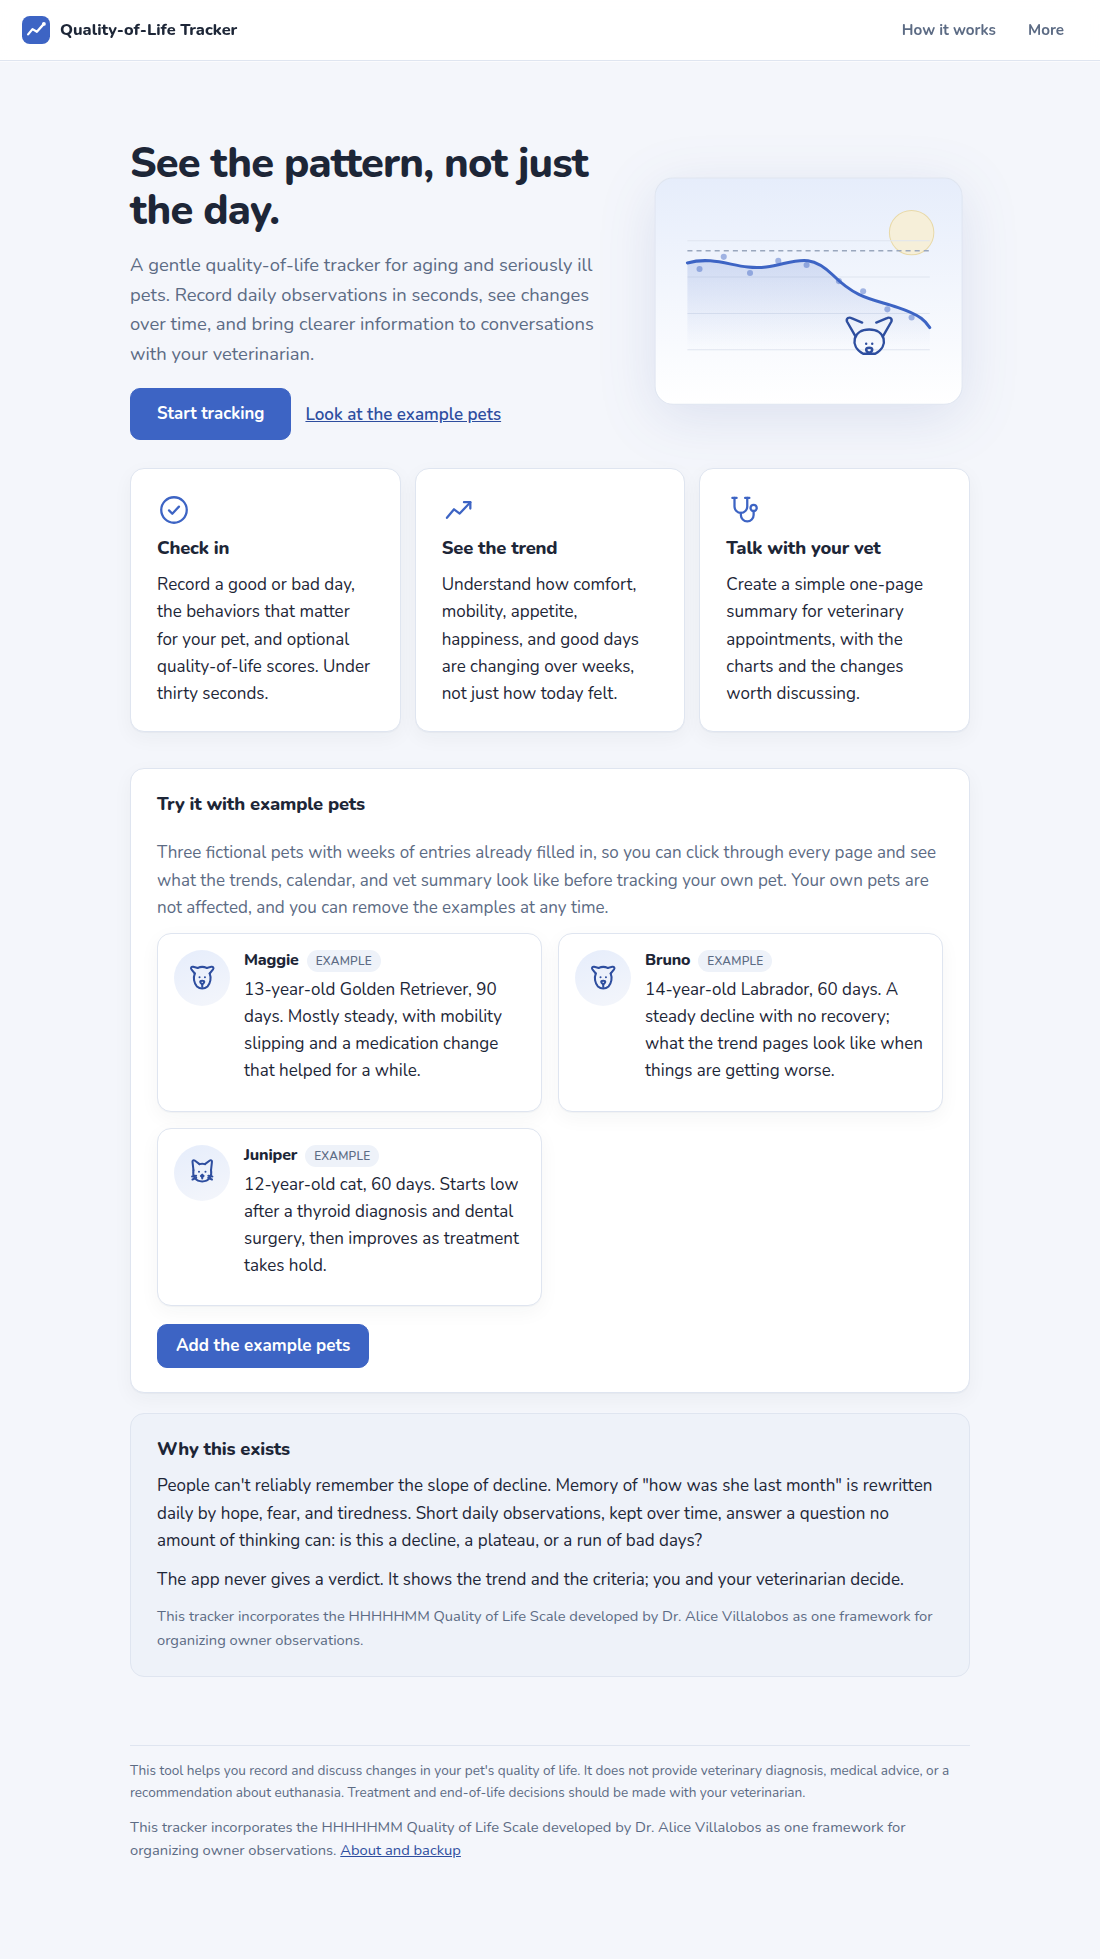
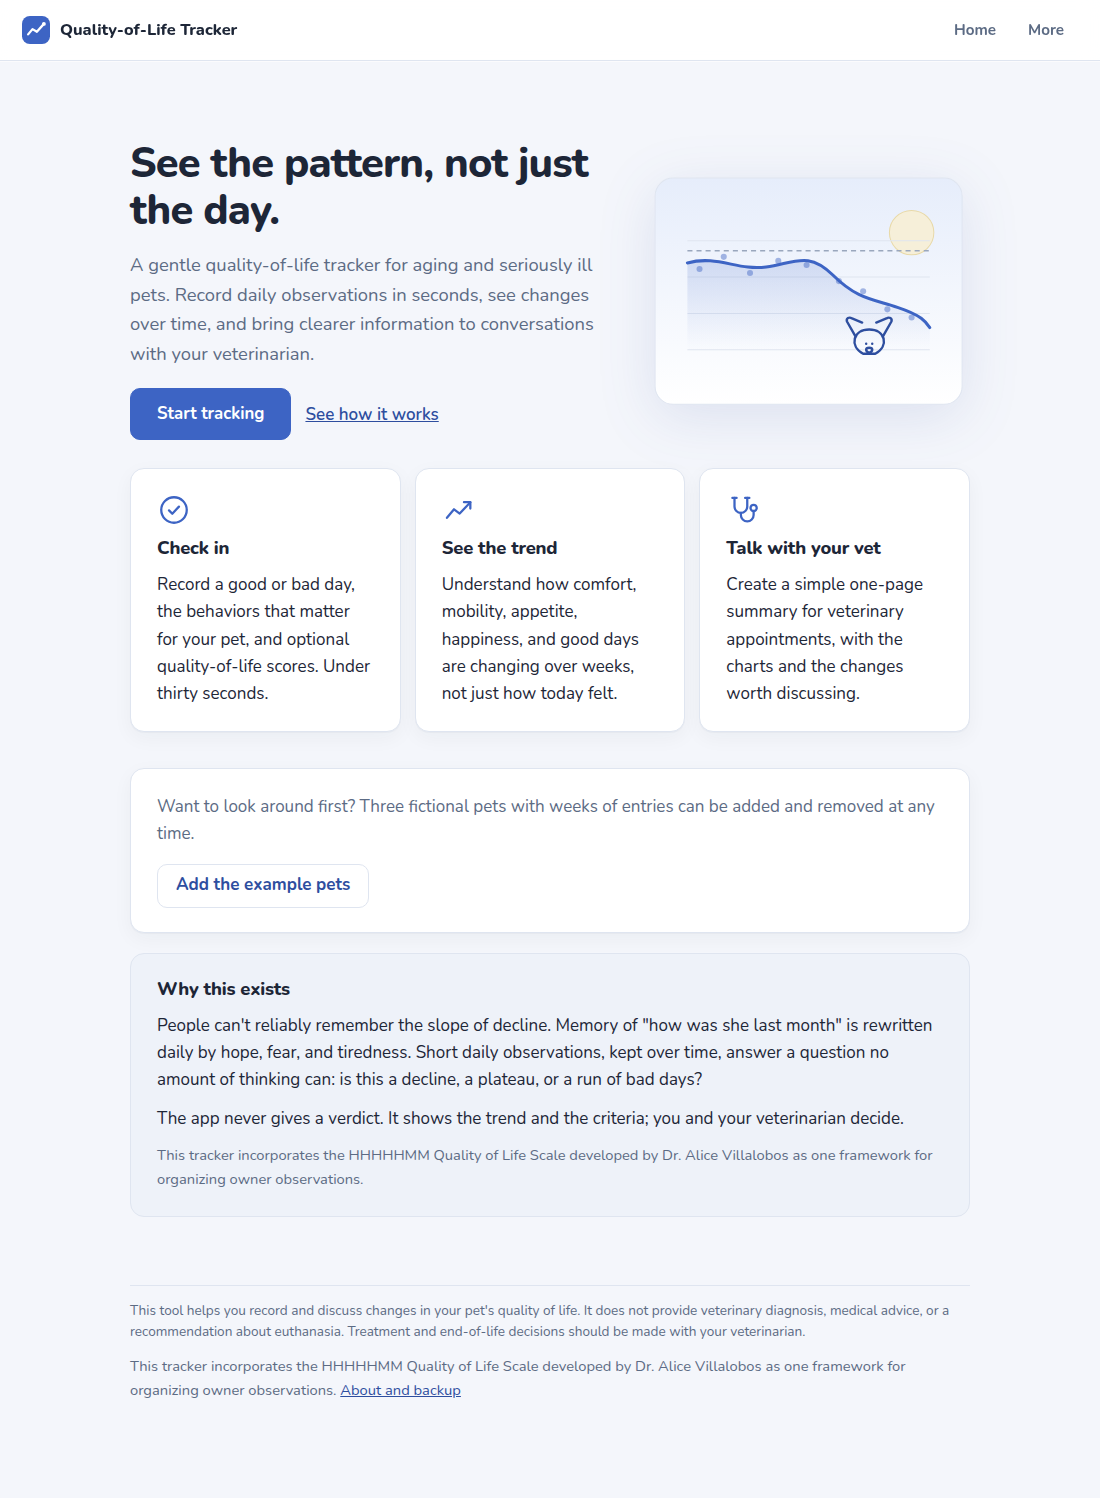
Add a Home tab and shrink the example pets to one button
Home leads the navigation and the logo goes there too. The home page
adapts to the situation: "Go to <pet>'s Today" and "Add a pet" when a
pet is current, "Choose a pet" when there are several, "Start tracking"
when there are none. The example-pet cards are replaced by one line with
an "Add the example pets" button, or a remove button once they are
loaded. One test added.

Claude-Session: https://claude.ai/code/session_01WD81nzJdcR2tiUwVwuFBaZ

diff --git a/app/templates/landing.html b/app/templates/landing.html
@@ -7,8 +7,16 @@
     <h1>See the pattern, not just the day.</h1>
     <p class="lede">A gentle quality-of-life tracker for aging and seriously ill pets. Record daily observations in seconds, see changes over time, and bring clearer information to conversations with your veterinarian.</p>
     <div class="actions">
-      <a class="button large" href="{{ url_for('animals.new_animal', onboarding=1) }}">Start tracking</a>
-      <a class="link" href="#examples">Look at the example pets</a>
+      {% if current %}
+        <a class="button large" href="{{ url_for('dashboard.today', animal_id=current.id) }}">Go to {{ current.name }}'s Today</a>
+        <a class="link" href="{{ url_for('animals.new_animal') }}">Add a pet</a>
+      {% elif pets %}
+        <a class="button large" href="{{ url_for('dashboard.pets') }}">Choose a pet</a>
+        <a class="link" href="{{ url_for('animals.new_animal') }}">Add a pet</a>
+      {% else %}
+        <a class="button large" href="{{ url_for('animals.new_animal', onboarding=1) }}">Start tracking</a>
+        <a class="link" href="#how">See how it works</a>
+      {% endif %}
     </div>
   </div>
   <figure class="hero-art" aria-hidden="true">
@@ -51,35 +59,18 @@
   </div>
 </section>
 
-<section class="card block" id="examples">
-  <div class="section-head tight">
-    <h2>Try it with example pets</h2>
-    {% if examples_present %}
-      <form method="post" action="{{ url_for('demo.remove') }}" class="inline-form" data-confirm="Remove the example pets and all their made-up entries?">
-        <button class="link small" type="submit">Remove the example pets</button>
-      </form>
-    {% endif %}
-  </div>
-  <p class="muted">Three fictional pets with weeks of entries already filled in, so you can click through every page and see what the trends, calendar, and vet summary look like before tracking your own pet. Your own pets are not affected, and you can remove the examples at any time.</p>
-  <div class="grid examples-grid">
-    {% for ex in examples %}
-      <article class="card example-card">
-        <span class="placeholder portrait" aria-hidden="true">{{ icon(ex.species, 'icon species') }}</span>
-        <div>
-          <h3>{{ ex.name }} <span class="chip quiet example-chip">Example</span></h3>
-          <p class="meta">{{ ex.story }}</p>
-          {% if ex.animal %}
-            <form method="post" action="{{ url_for('animals.select_animal', animal_id=ex.animal.id) }}" class="inline-form">
-              <button class="button small secondary" type="submit">Open {{ ex.name }}</button>
-            </form>
-          {% endif %}
-        </div>
-      </article>
-    {% endfor %}
-  </div>
-  {% if not examples_present %}
-    <form method="post" action="{{ url_for('demo.add') }}" class="actions">
-      <button class="button" type="submit">Add the example pets</button>
+<section class="card block examples-line" id="examples">
+  {% if examples_present %}
+    <p>Example pets are loaded:
+      {% for ex in examples if ex.animal %}<a href="{{ url_for('dashboard.today', animal_id=ex.animal.id) }}">{{ ex.name }}</a>{% if not loop.last %}, {% endif %}{% endfor %}.
+      Everything about them is made up.</p>
+    <form method="post" action="{{ url_for('demo.remove') }}" class="inline-form" data-confirm="Remove the example pets and all their made-up entries?">
+      <button class="button small secondary" type="submit">Remove the example pets</button>
+    </form>
+  {% else %}
+    <p>Want to look around first? Three fictional pets with weeks of entries can be added and removed at any time.</p>
+    <form method="post" action="{{ url_for('demo.add') }}" class="inline-form">
+      <button class="button secondary" type="submit">Add the example pets</button>
     </form>
   {% endif %}
 </section>

diff --git a/app/templates/base.html b/app/templates/base.html
@@ -12,13 +12,14 @@
 <body class="{% block body_class %}{% endblock %}">
   <a class="skip" href="#main">Skip to content</a>
   <header class="topbar">
-    <a class="brand" href="{{ url_for('dashboard.home') }}">
+    <a class="brand" href="{{ url_for('dashboard.landing') }}">
       <svg viewBox="0 0 32 32" aria-hidden="true"><rect width="32" height="32" rx="9" fill="#3d64c4"/><polyline points="7,21 12,15 17,18 25,9" fill="none" stroke="#fff" stroke-width="2.6" stroke-linecap="round" stroke-linejoin="round"/><circle cx="25" cy="9" r="2.2" fill="#fff"/></svg>
       <span>Quality-of-Life Tracker</span>
     </a>
     {% if g.current_animal %}
       {% set a = g.current_animal %}
       <nav class="nav" aria-label="Main">
+        <a class="nav-item {{ 'active' if request.endpoint == 'dashboard.landing' }}" href="{{ url_for('dashboard.landing') }}">Home</a>
         <a class="nav-item {{ 'active' if request.endpoint in ('dashboard.today', 'entries.checkin', 'entries.quick_checkin') }}" href="{{ url_for('dashboard.today', animal_id=a.id) }}">Today</a>
         <a class="nav-item {{ 'active' if request.endpoint and request.endpoint.startswith('trends.trends') or request.endpoint == 'trends.category' or request.endpoint == 'markers.behaviors' }}" href="{{ url_for('trends.trends', animal_id=a.id) }}">Trends</a>
         <a class="nav-item {{ 'active' if request.endpoint == 'trends.calendar' }}" href="{{ url_for('trends.calendar', animal_id=a.id) }}">Calendar</a>
@@ -27,7 +28,7 @@
       </nav>
     {% else %}
       <nav class="nav" aria-label="Main">
-        <a class="nav-item" href="{{ url_for('dashboard.landing') }}">How it works</a>
+        <a class="nav-item {{ 'active' if request.endpoint == 'dashboard.landing' }}" href="{{ url_for('dashboard.landing') }}">Home</a>
         <a class="nav-item" href="{{ url_for('dashboard.more') }}">More</a>
       </nav>
     {% endif %}

diff --git a/app/static/style.css b/app/static/style.css
@@ -368,12 +368,10 @@ body { font-size: 17px; line-height: 1.6; }
   .card.block { padding: 18px; }
 }
 
-/* Example pets on the How it works page */
-.examples-grid { margin-top: 12px; }
-.example-card { display: flex; gap: 14px; align-items: flex-start; padding: 16px; }
-.example-card .placeholder.portrait { flex: 0 0 56px; width: 56px; height: 56px; }
-.example-card h3 { margin: 0 0 4px; display: flex; align-items: center; gap: 8px; flex-wrap: wrap; }
-.example-card .meta { margin: 0 0 10px; }
+/* Example pets: one line on the home page */
+.examples-line { display: flex; align-items: center; justify-content: space-between; gap: 16px; flex-wrap: wrap; }
+.examples-line p { margin: 0; color: var(--muted); }
+.examples-line p a { font-weight: 700; }
 .example-chip { min-height: 22px; padding: 0 8px; font-size: 0.74rem; letter-spacing: 0.02em; text-transform: uppercase; background: var(--accent-soft); color: var(--accent-dark); }
 
 /* Pet switcher bar under the header */

diff --git a/app/templates/more.html b/app/templates/more.html
@@ -31,7 +31,7 @@
   <h2>App</h2>
   <ul class="link-list">
     <li>{{ icon('archive') }}<a href="{{ url_for('settings.settings') }}">Backup, restore, and about</a></li>
-    <li>{{ icon('trend') }}<a href="{{ url_for('dashboard.landing') }}">How it works</a></li>
+    <li>{{ icon('trend') }}<a href="{{ url_for('dashboard.landing') }}">Home and how it works</a></li>
     <li>{{ icon('heart') }}<a href="{{ url_for('dashboard.landing') }}#examples">Example pets</a> <span class="muted small">add or remove the three sample pets</span></li>
   </ul>
 </section>

diff --git a/tests/test_review2.py b/tests/test_review2.py
@@ -413,7 +413,7 @@ def test_more_tab_is_highlighted_on_its_sub_pages(client):
 
 def test_example_pets_can_be_added_and_removed(client, app):
     html = client.get("/how-it-works").get_data(as_text=True)
-    assert "Add the example pets" in html and "Maggie" in html and "Juniper" in html
+    assert "Add the example pets" in html
     r = client.post("/examples/add", follow_redirects=True)
     assert b"Added Maggie, Bruno, Juniper as example pets" in r.data
     assert b"Example pet" in r.data  # badge on the dashboard the add lands on
@@ -423,7 +423,7 @@ def test_example_pets_can_be_added_and_removed(client, app):
         assert all(a.demo for a in demo)
         assert len(entries.list_entries(demo[2].id)) > 40
     html = client.get("/how-it-works").get_data(as_text=True)
-    assert "Remove the example pets" in html and "Open Juniper" in html
+    assert "Remove the example pets" in html and ">Juniper</a>" in html
     # adding again is harmless
     r = client.post("/examples/add", follow_redirects=True)
     assert b"already here" in r.data
@@ -467,3 +467,12 @@ def test_pet_switcher_keeps_the_page_and_only_shows_with_several_pets(client):
     assert 'href="/animals/1/trends/mobility"' in html
     html = client.get("/more").get_data(as_text=True)   # not a pet page: chips go to Today
     assert 'href="/animals/1/today"' in html
+
+
+def test_home_tab_goes_to_the_home_page(client):
+    _pet(client)
+    html = client.get("/animals/1/trends").get_data(as_text=True)
+    assert '>Home</a>' in html and 'href="/how-it-works"' in html
+    html = client.get("/how-it-works").get_data(as_text=True)
+    assert 'nav-item active" href="/how-it-works">Home' in html
+    assert "Go to Maggie" in html

diff --git a/app/routes/dashboard.py b/app/routes/dashboard.py
@@ -16,7 +16,7 @@ def home():
     active = models.list_animals()
     everyone = models.list_animals(include_archived=True)
     if not everyone:
-        return render_template("landing.html", attribution=scoring.ATTRIBUTION, **_examples())
+        return render_template("landing.html", attribution=scoring.ATTRIBUTION, pets=[], current=None, **_examples())
     animal = current_or_choose()
     if animal and animal.status == "active":
         return redirect(url_for("dashboard.today", animal_id=animal.id))
@@ -33,7 +33,9 @@ def pets():
 
 @bp.route("/how-it-works")
 def landing():
-    return render_template("landing.html", attribution=scoring.ATTRIBUTION, **_examples())
+    """The home page: what the app is, where to go next, and the example pets."""
+    return render_template("landing.html", attribution=scoring.ATTRIBUTION, pets=models.list_animals(),
+                           current=current_or_choose(), **_examples())
 
 
 def _examples() -> dict:

diff --git a/docs/BUILD-LOG.md b/docs/BUILD-LOG.md
@@ -261,6 +261,13 @@ editing couldn't blank a weight; fixed with an explicit sentinel.
   keeps you on the same page for the other pet (Bruno's Trends to
   Juniper's Trends). Before this, switching meant More, then Pets, then
   Open, and you landed on Today every time.
+- And: "add a home page that brings you back home; take the example pets
+  section out of the homepage, a button is plenty." A Home tab now leads
+  the navigation (the logo goes there too). The home page adapts: with a
+  pet it offers "Go to Maggie's Today" and "Add a pet"; with none, "Start
+  tracking". The three example-pet cards became one line with one button,
+  and a remove button once they are loaded. Two requests, two reversals
+  of my own earlier choices; the feedback loop is doing its job.
 
 ---
 

diff --git a/README.md b/README.md
@@ -52,9 +52,9 @@ observations, and it is not a validated medical device.
   prompts, and offers to keep, archive, export, or remove the profile.
 - **Several pets, one bar.** With more than one pet, a switcher under the
   header jumps between them and stays on the same page.
-- **Example pets to explore.** The "How it works" page can add three fictional
+- **Example pets to explore.** One button on the Home page adds three fictional
   pets with weeks of entries (steady, declining, and improving) so you can
-  click through every page first, then remove them with one button.
+  click through every page first; another removes them.
 
 | Check-in | Trends | Vet visit |
 | --- | --- | --- |
